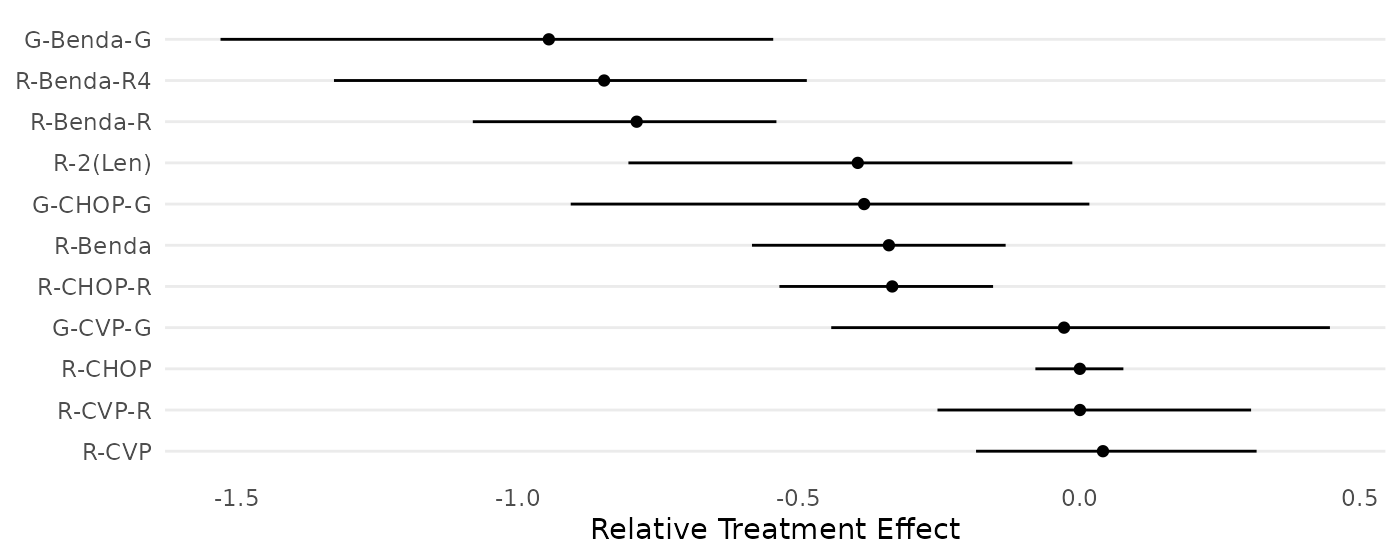
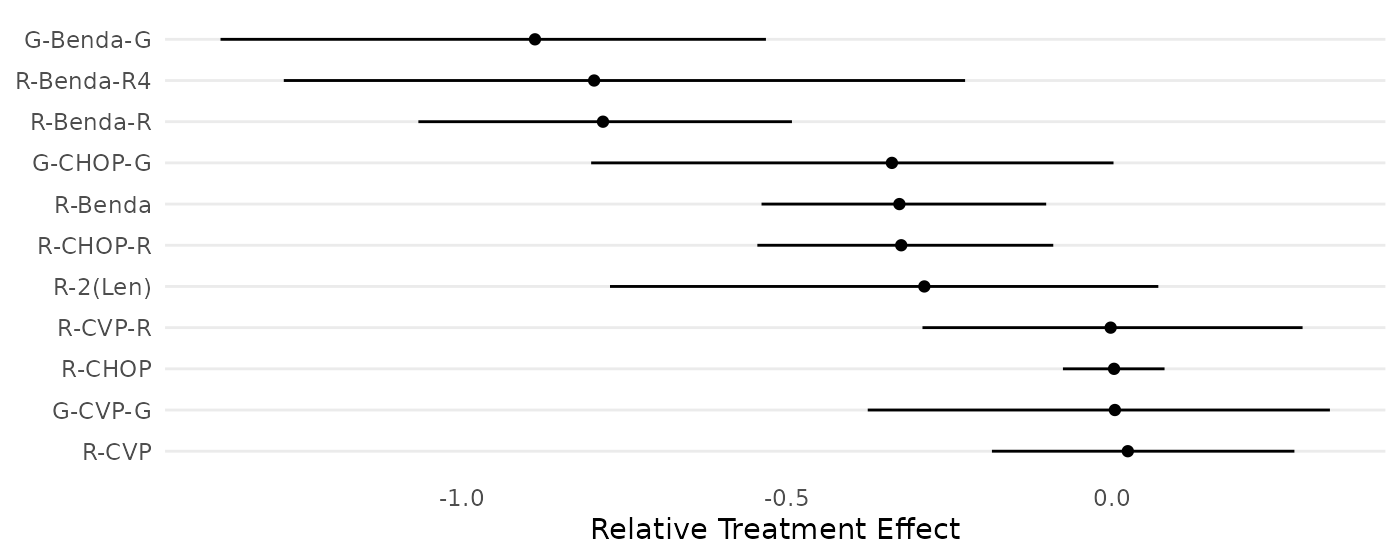
Deploying to gh-pages from @ pearce790/RaCE.NMA@b631c99bf0485217ce98e3b712d83e1b528a136e 🚀

diff --git a/articles/reproducibility.html b/articles/reproducibility.html
@@ -137,7 +137,7 @@ simulation study. Second, we create the figure.</p>
 <span>        </span>
 <span>        <span class="va">mcmc</span> <span class="op">&lt;-</span> <span class="fu"><a href="../reference/mcmc_RCMVN.html">mcmc_RCMVN</a></span><span class="op">(</span>ybar<span class="op">=</span><span class="va">ybar</span>,s<span class="op">=</span><span class="fu"><a href="https://rdrr.io/r/base/rep.html" class="external-link">rep</a></span><span class="op">(</span><span class="va">s</span>,<span class="va">J</span><span class="op">)</span>,mu<span class="op">=</span><span class="fu"><a href="https://rdrr.io/r/base/mean.html" class="external-link">mean</a></span><span class="op">(</span><span class="va">ybar</span><span class="op">)</span>,</span>
 <span>                           sigma0<span class="op">=</span><span class="fu"><a href="https://rdrr.io/r/base/Extremes.html" class="external-link">max</a></span><span class="op">(</span><span class="fl">1</span>,<span class="fl">4</span><span class="op">*</span><span class="fu"><a href="https://rdrr.io/r/stats/sd.html" class="external-link">sd</a></span><span class="op">(</span><span class="va">ybar</span><span class="op">)</span><span class="op">)</span>,nu0<span class="op">=</span><span class="va">ybar</span>,</span>
-<span>                           tau<span class="op">=</span><span class="fl">1</span>,num_iters<span class="op">=</span><span class="fl">300</span>,nu_reps<span class="op">=</span><span class="fl">2</span>,chains<span class="op">=</span><span class="fl">4</span>, <span class="co">#FIX:3000</span></span>
+<span>                           tau<span class="op">=</span><span class="fl">1</span>,num_iters<span class="op">=</span><span class="fl">3000</span>,nu_reps<span class="op">=</span><span class="fl">2</span>,chains<span class="op">=</span><span class="fl">4</span>,</span>
 <span>                           burn_prop<span class="op">=</span><span class="fl">0.5</span>,thin<span class="op">=</span><span class="fl">3</span>,suppressPrint<span class="op">=</span><span class="cn">TRUE</span><span class="op">)</span></span>
 <span>        </span>
 <span>        <span class="va">equal</span> <span class="op">&lt;-</span> <span class="va">posterior_equal</span> <span class="op">&lt;-</span> <span class="fu"><a href="https://rdrr.io/r/base/matrix.html" class="external-link">matrix</a></span><span class="op">(</span><span class="cn">NA</span>,nrow<span class="op">=</span><span class="va">J</span>,ncol<span class="op">=</span><span class="va">J</span><span class="op">)</span></span>
@@ -204,7 +204,7 @@ to the simulated data. Second, we calculate and display the values in
 Table 1.</p>
 <div class="sourceCode" id="cb6"><pre class="downlit sourceCode r">
 <code class="sourceCode R"><span><span class="va">mcmc</span> <span class="op">&lt;-</span> <span class="fu"><a href="../reference/mcmc_RCMVN.html">mcmc_RCMVN</a></span><span class="op">(</span>ybar <span class="op">=</span> <span class="va">ybar</span>, s <span class="op">=</span> <span class="va">s</span>, </span>
-<span>                   num_iters <span class="op">=</span> <span class="fl">500</span>, nu_reps <span class="op">=</span> <span class="fl">2</span>, chains <span class="op">=</span> <span class="fl">4</span>, <span class="co">#FIX:50000</span></span>
+<span>                   num_iters <span class="op">=</span> <span class="fl">50000</span>, nu_reps <span class="op">=</span> <span class="fl">2</span>, chains <span class="op">=</span> <span class="fl">4</span>, </span>
 <span>                   burn_prop <span class="op">=</span> <span class="fl">0.5</span>,thin <span class="op">=</span> <span class="fl">1</span>,suppressPrint <span class="op">=</span> <span class="cn">TRUE</span><span class="op">)</span></span>
 <span></span>
 <span><span class="va">posterior_equal</span> <span class="op">&lt;-</span> <span class="fu"><a href="https://rdrr.io/r/base/matrix.html" class="external-link">matrix</a></span><span class="op">(</span><span class="cn">NA</span>,nrow<span class="op">=</span><span class="va">J</span>,ncol<span class="op">=</span><span class="va">J</span><span class="op">)</span></span>
@@ -213,9 +213,9 @@ Table 1.</p>
 <span><span class="op">}</span><span class="op">}</span></span>
 <span><span class="fu"><a href="https://rdrr.io/r/base/Round.html" class="external-link">round</a></span><span class="op">(</span><span class="va">posterior_equal</span>,<span class="fl">2</span><span class="op">)</span></span>
 <span><span class="co">##      [,1] [,2] [,3] [,4]</span></span>
-<span><span class="co">## [1,]   NA    0    0 0.12</span></span>
-<span><span class="co">## [2,]   NA   NA    0 0.37</span></span>
-<span><span class="co">## [3,]   NA   NA   NA 0.24</span></span>
+<span><span class="co">## [1,]   NA    0    0 0.18</span></span>
+<span><span class="co">## [2,]   NA   NA    0 0.40</span></span>
+<span><span class="co">## [3,]   NA   NA   NA 0.19</span></span>
 <span><span class="co">## [4,]   NA   NA   NA   NA</span></span></code></pre></div>
 <p>The following code reproduces Figure 4: First, we calculate the
 posterior rank-clustering probability under a traditional model (i.e.,
@@ -293,7 +293,7 @@ from Wang et al. (2022).</p>
 <div class="sourceCode" id="cb10"><pre class="downlit sourceCode r">
 <code class="sourceCode R"><span><span class="va">mcmc</span> <span class="op">&lt;-</span> <span class="fu"><a href="../reference/mcmc_RCMVN.html">mcmc_RCMVN</a></span><span class="op">(</span>ybar <span class="op">=</span> <span class="va">ybar</span>, cov <span class="op">=</span> <span class="va">cov</span>, </span>
 <span>                   mu0 <span class="op">=</span> <span class="fu"><a href="https://rdrr.io/r/base/mean.html" class="external-link">mean</a></span><span class="op">(</span><span class="va">ybar</span><span class="op">)</span>, sigma0 <span class="op">=</span> <span class="fu"><a href="https://rdrr.io/r/base/MathFun.html" class="external-link">sqrt</a></span><span class="op">(</span><span class="fl">10</span><span class="op">*</span><span class="fu"><a href="https://rdrr.io/r/stats/cor.html" class="external-link">var</a></span><span class="op">(</span><span class="va">ybar</span><span class="op">)</span><span class="op">)</span>,</span>
-<span>                   num_iters <span class="op">=</span> <span class="fl">500</span>, nu_reps <span class="op">=</span> <span class="fl">5</span>, chains <span class="op">=</span> <span class="fl">4</span>, <span class="co">#FIX:50000</span></span>
+<span>                   num_iters <span class="op">=</span> <span class="fl">50000</span>, nu_reps <span class="op">=</span> <span class="fl">5</span>, chains <span class="op">=</span> <span class="fl">4</span>, </span>
 <span>                   seed <span class="op">=</span> <span class="fl">1</span>, suppressPrint <span class="op">=</span> <span class="cn">TRUE</span><span class="op">)</span></span></code></pre></div>
 <p>The following code chunk reproduces Figure 6, Figure 7, and Table 2:
 First, we calculate the values underpinning each graphic. Then, we
@@ -330,17 +330,17 @@ create each in turn.</p>
 <span><span class="fu"><a href="https://rdrr.io/r/base/names.html" class="external-link">names</a></span><span class="op">(</span><span class="va">table2</span><span class="op">)</span> <span class="op">&lt;-</span> <span class="fu"><a href="https://rdrr.io/r/base/c.html" class="external-link">c</a></span><span class="op">(</span><span class="st">"Treatment"</span>,<span class="st">"SUCRA (Wang)"</span>,<span class="st">"SUCRA (RaCE)"</span>,<span class="st">"MNBT (Wang)"</span>,<span class="st">"MNBT (RaCE)"</span><span class="op">)</span></span>
 <span><span class="fu"><a href="https://rdrr.io/r/base/print.html" class="external-link">print</a></span><span class="op">(</span><span class="va">table2</span><span class="op">)</span></span>
 <span><span class="co">##     Treatment SUCRA (Wang) SUCRA (RaCE) MNBT (Wang) MNBT (RaCE)</span></span>
-<span><span class="co">## 1   G-Benda-G   0.96674667      0.98302    0 (0, 1)    0 (0, 0)</span></span>
-<span><span class="co">## 2  R-Benda-R4   0.88424167      0.95020    1 (0, 1)    0 (0, 1)</span></span>
-<span><span class="co">## 3   R-Benda-R   0.81178500      0.92332    2 (2, 2)    1 (0, 1)</span></span>
-<span><span class="co">## 4    G-CHOP-G   0.66349833      0.62416    3 (3, 4)    3 (3, 5)</span></span>
-<span><span class="co">## 5    R-CHOP-R   0.51395000      0.62664    5 (4, 5)    3 (3, 4)</span></span>
-<span><span class="co">## 6    R-2(Len)   0.50069000      0.66214    5 (4, 6)    3 (3, 4)</span></span>
-<span><span class="co">## 7     R-Benda   0.48215000      0.63026    5 (4, 6)    3 (3, 4)</span></span>
-<span><span class="co">## 8     G-CVP-G   0.27813667      0.28324    7 (6, 8)    7 (7, 8)</span></span>
-<span><span class="co">## 9      R-CHOP   0.18591667      0.25988    8 (7, 9)    7 (7, 8)</span></span>
-<span><span class="co">## 10    R-CVP-R   0.15917167      0.27416    8 (8, 9)    7 (7, 8)</span></span>
-<span><span class="co">## 11      R-CVP   0.05371333      0.22688  10 (9, 10)    8 (7, 8)</span></span></code></pre></div>
+<span><span class="co">## 1   G-Benda-G   0.96674667    0.9923444    0 (0, 1)    0 (0, 0)</span></span>
+<span><span class="co">## 2  R-Benda-R4   0.88424167    0.9427304    1 (0, 1)    0 (0, 1)</span></span>
+<span><span class="co">## 3   R-Benda-R   0.81178500    0.9245186    2 (2, 2)    1 (0, 1)</span></span>
+<span><span class="co">## 4    G-CHOP-G   0.66349833    0.6473594    3 (3, 4)    3 (3, 4)</span></span>
+<span><span class="co">## 5    R-CHOP-R   0.51395000    0.6574624    5 (4, 5)    3 (3, 4)</span></span>
+<span><span class="co">## 6    R-2(Len)   0.50069000    0.6042736    5 (4, 6)    3 (3, 5)</span></span>
+<span><span class="co">## 7     R-Benda   0.48215000    0.6565974    5 (4, 6)    3 (3, 4)</span></span>
+<span><span class="co">## 8     G-CVP-G   0.27813667    0.2760538    7 (6, 8)    7 (7, 8)</span></span>
+<span><span class="co">## 9      R-CHOP   0.18591667    0.2787232    8 (7, 9)    7 (7, 8)</span></span>
+<span><span class="co">## 10    R-CVP-R   0.15917167    0.2958426    8 (8, 9)    7 (7, 7)</span></span>
+<span><span class="co">## 11      R-CVP   0.05371333    0.2644622  10 (9, 10)    7 (7, 8)</span></span></code></pre></div>
 <p>The following code chunk reproduces the Figures 8–10 (Appendix
 B).</p>
 <div class="sourceCode" id="cb14"><pre class="downlit sourceCode r">

diff --git a/articles/tutorial.html b/articles/tutorial.html
@@ -432,7 +432,7 @@ the 11 treatments in the study, as estimated by Wang et. al (2022).</p>
 <code class="sourceCode R"><span><span class="va">mcmc_results_casestudy</span> <span class="op">&lt;-</span> <span class="fu"><a href="../reference/mcmc_RCMVN.html">mcmc_RCMVN</a></span><span class="op">(</span></span>
 <span>  ybar <span class="op">=</span> <span class="va">ybar_wang</span>, cov <span class="op">=</span> <span class="va">cov_wang</span>,</span>
 <span>  mu0 <span class="op">=</span> <span class="fu"><a href="https://rdrr.io/r/base/mean.html" class="external-link">mean</a></span><span class="op">(</span><span class="va">ybar_wang</span><span class="op">)</span>, sigma0 <span class="op">=</span> <span class="fu"><a href="https://rdrr.io/r/base/MathFun.html" class="external-link">sqrt</a></span><span class="op">(</span><span class="fl">10</span><span class="op">*</span><span class="fu"><a href="https://rdrr.io/r/stats/cor.html" class="external-link">var</a></span><span class="op">(</span><span class="va">ybar_wang</span><span class="op">)</span><span class="op">)</span>,</span>
-<span>  num_iters <span class="op">=</span> <span class="fl">10000</span>, nu_reps <span class="op">=</span> <span class="fl">2</span>, chains <span class="op">=</span> <span class="fl">2</span>, seed <span class="op">=</span> <span class="fl">1</span></span>
+<span>  num_iters <span class="op">=</span> <span class="fl">40000</span>, nu_reps <span class="op">=</span> <span class="fl">2</span>, chains <span class="op">=</span> <span class="fl">2</span>, seed <span class="op">=</span> <span class="fl">1</span></span>
 <span><span class="op">)</span></span>
 <span><span class="co">#&gt; [1] "Estimating chain 1 of 2."</span></span>
 <span><span class="co">#&gt; [1] "Estimating chain 2 of 2."</span></span></code></pre></div>
@@ -451,17 +451,17 @@ the 11 treatments in the study, as estimated by Wang et. al (2022).</p>
 <span><span class="co">#&gt; Potential scale reduction factors:</span></span>
 <span><span class="co">#&gt; </span></span>
 <span><span class="co">#&gt;            Point est. Upper C.I.</span></span>
-<span><span class="co">#&gt; R-CHOP           1.00       1.01</span></span>
-<span><span class="co">#&gt; R-CHOP-R         1.01       1.06</span></span>
-<span><span class="co">#&gt; R-Benda          1.02       1.09</span></span>
-<span><span class="co">#&gt; R-Benda-R        1.00       1.02</span></span>
-<span><span class="co">#&gt; R-Benda-R4       1.00       1.00</span></span>
-<span><span class="co">#&gt; R-CVP            1.08       1.30</span></span>
-<span><span class="co">#&gt; R-CVP-R          1.09       1.32</span></span>
-<span><span class="co">#&gt; R-2(Len)         1.16       1.55</span></span>
-<span><span class="co">#&gt; G-CVP-G          1.08       1.31</span></span>
-<span><span class="co">#&gt; G-CHOP-G         1.19       1.65</span></span>
-<span><span class="co">#&gt; G-Benda-G        1.16       1.55</span></span></code></pre></div>
+<span><span class="co">#&gt; R-CHOP           1.01       1.03</span></span>
+<span><span class="co">#&gt; R-CHOP-R         1.00       1.01</span></span>
+<span><span class="co">#&gt; R-Benda          1.01       1.03</span></span>
+<span><span class="co">#&gt; R-Benda-R        1.00       1.01</span></span>
+<span><span class="co">#&gt; R-Benda-R4       1.03       1.08</span></span>
+<span><span class="co">#&gt; R-CVP            1.02       1.05</span></span>
+<span><span class="co">#&gt; R-CVP-R          1.07       1.17</span></span>
+<span><span class="co">#&gt; R-2(Len)         1.05       1.20</span></span>
+<span><span class="co">#&gt; G-CVP-G          1.19       1.67</span></span>
+<span><span class="co">#&gt; G-CHOP-G         1.24       1.91</span></span>
+<span><span class="co">#&gt; G-Benda-G        1.16       1.56</span></span></code></pre></div>
 </div>
 <div class="section level3">
 <h3 id="inference-and-summary-statistics-1">3. Inference and summary statistics<a class="anchor" aria-label="anchor" href="#inference-and-summary-statistics-1"></a>
@@ -477,18 +477,18 @@ in the code chunks below.</p>
 <p><img src="tutorial_files/figure-html/unnamed-chunk-22-1.png" class="r-plt" alt="" width="700"></p>
 <div class="sourceCode" id="cb24"><pre class="downlit sourceCode r">
 <code class="sourceCode R"><span><span class="fu"><a href="../reference/calculate_SUCRA_MNBT.html">calculate_SUCRA_MNBT</a></span><span class="op">(</span>mcmc<span class="op">=</span><span class="va">mcmc_results_casestudy</span>,names<span class="op">=</span><span class="va">treatments</span><span class="op">)</span></span>
-<span><span class="co">#&gt;     Treatment    SUCRA MNBT (50% CI)</span></span>
-<span><span class="co">#&gt; 1   G-Benda-G 0.993630      0 (0, 0)</span></span>
-<span><span class="co">#&gt; 2  R-Benda-R4 0.942055      0 (0, 1)</span></span>
-<span><span class="co">#&gt; 3   R-Benda-R 0.924070      1 (0, 1)</span></span>
-<span><span class="co">#&gt; 4    R-2(Len) 0.663695      3 (3, 4)</span></span>
-<span><span class="co">#&gt; 5    G-CHOP-G 0.648690      3 (3, 4)</span></span>
-<span><span class="co">#&gt; 6     R-Benda 0.637975      3 (3, 4)</span></span>
-<span><span class="co">#&gt; 7    R-CHOP-R 0.636165      3 (3, 4)</span></span>
-<span><span class="co">#&gt; 8     R-CVP-R 0.284175      7 (7, 8)</span></span>
-<span><span class="co">#&gt; 9     G-CVP-G 0.279990      7 (7, 8)</span></span>
-<span><span class="co">#&gt; 10     R-CHOP 0.266110      7 (7, 8)</span></span>
-<span><span class="co">#&gt; 11      R-CVP 0.255875      7 (7, 8)</span></span></code></pre></div>
+<span><span class="co">#&gt;     Treatment     SUCRA MNBT (50% CI)</span></span>
+<span><span class="co">#&gt; 1   G-Benda-G 0.9922112      0 (0, 0)</span></span>
+<span><span class="co">#&gt; 2  R-Benda-R4 0.9397925      0 (0, 1)</span></span>
+<span><span class="co">#&gt; 3   R-Benda-R 0.9223138      1 (0, 2)</span></span>
+<span><span class="co">#&gt; 4     R-Benda 0.6585300      3 (3, 4)</span></span>
+<span><span class="co">#&gt; 5    R-CHOP-R 0.6570700      3 (3, 4)</span></span>
+<span><span class="co">#&gt; 6    G-CHOP-G 0.6445500      3 (3, 4)</span></span>
+<span><span class="co">#&gt; 7    R-2(Len) 0.6035275      3 (3, 6)</span></span>
+<span><span class="co">#&gt; 8     R-CVP-R 0.3005300      7 (7, 8)</span></span>
+<span><span class="co">#&gt; 9     G-CVP-G 0.2808388      7 (7, 8)</span></span>
+<span><span class="co">#&gt; 10     R-CHOP 0.2779125      7 (7, 8)</span></span>
+<span><span class="co">#&gt; 11      R-CVP 0.2687087      7 (7, 8)</span></span></code></pre></div>
 </div>
 </div>
   </div>
